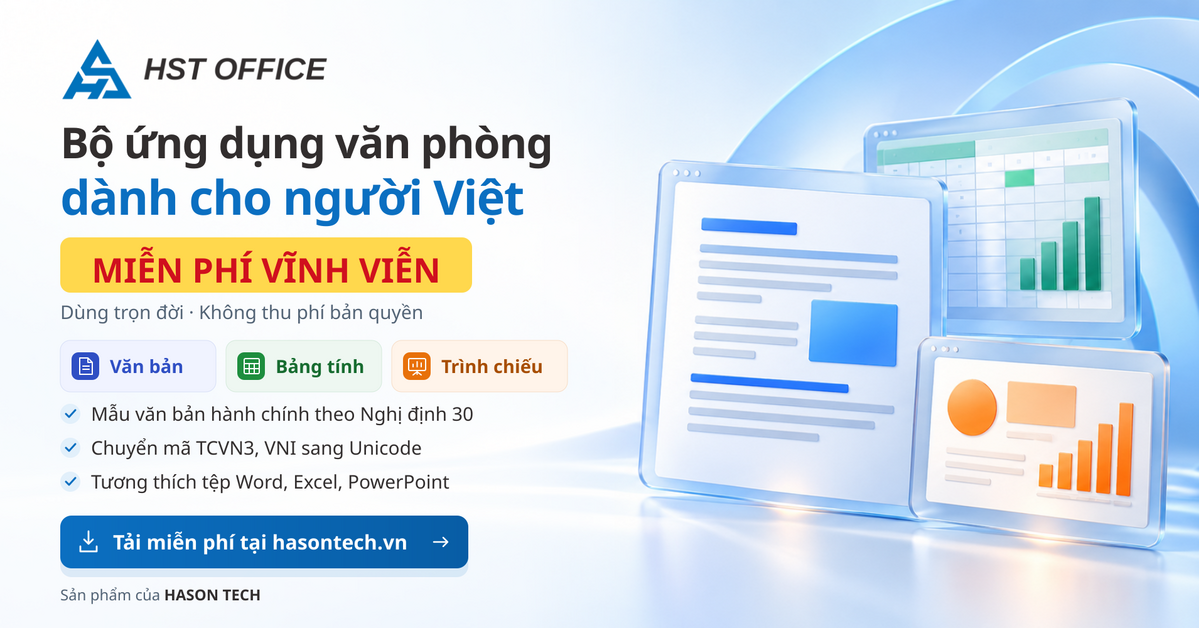
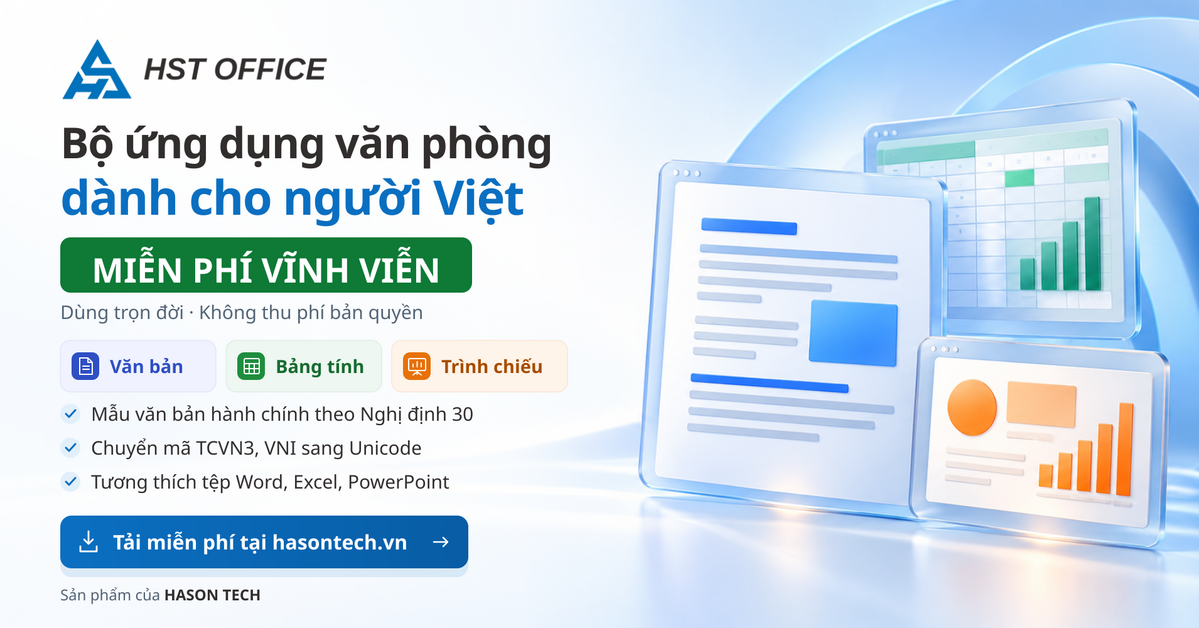
feat(marketing): dark-green lifetime-free badge with white text; landing page brief

Changed region(s): [[0.0309, 0.3631, 0.4012, 0.4841]]

diff --git a/docs/website/office-landing-page-brief.md b/docs/website/office-landing-page-brief.md
@@ -1,0 +1,61 @@
+# Brief: landing page office.hasontech.vn (HST Office)
+
+Người yêu cầu: chủ dự án HST Office (HASON TECH). Ngày: 2026-10-30.
+
+## Mục tiêu
+Một landing page tiếng Việt, một trang, đẹp, nhanh, chuẩn SEO, giới thiệu **HST Office** — bộ ứng dụng văn phòng **MIỄN PHÍ VĨNH VIỄN** cho người Việt — và cho tải bộ cài.
+
+## Cách làm (bắt buộc)
+- **Thiết kế và viết code bằng Codex CLI, model gpt-6-astra, reasoning effort xhigh** (`codex exec -c model_reasoning_effort=xhigh ...`, sandbox `workspace-write` trong một thư mục làm việc; không dùng `--full-auto`). Bạn (phiên remote) điều phối, review, sửa lỗi, rồi deploy.
+- Trang **tĩnh** (HTML + CSS + JS tối thiểu, không framework nặng, không build step bắt buộc). Ảnh tối ưu (WebP + fallback, lazy-load), Lighthouse mục tiêu ≥ 90 cả 4 mục, responsive tốt ở mobile.
+
+## Triển khai
+- Máy chủ: **VPS 239** (103.122.221.239) — thông tin truy cập bạn đã có trong phiên này. DNS `office.hasontech.vn` đã trỏ về IP này.
+- Hosting: subdomain dưới user **hasontech** (cùng hosting). Thư mục web: **`/domains/office.hasontech.vn/public_html`** (đường dẫn trong home của user hasontech, ví dụ `/home/hasontech/domains/office.hasontech.vn/public_html` — xác minh thực tế trên VPS).
+- Nếu subdomain chưa được tạo trong control panel thì tạo đúng cách của panel đang dùng (không sửa tay cấu hình web server của site khác). Bật HTTPS (Let's Encrypt qua panel) và chuyển hướng HTTP→HTTPS.
+- **An toàn:** chỉ đụng thư mục/subdomain này. Không sửa site khác của user hasontech hay site khác trên VPS. Sao lưu `public_html` hiện có (nếu có nội dung) trước khi ghi đè. File thuộc user `hasontech`, quyền 644/755. Không đặt secret/khóa vào code trang.
+- Sau deploy: kiểm tra `https://office.hasontech.vn` trả 200, chứng chỉ hợp lệ, ảnh và link tải chạy.
+
+## Tài sản (lấy từ repo trên máy này: `/home/office`)
+- Logo: `/home/office/branding/libreoffice/logo.svg` (logo HST OFFICE), biểu tượng `/home/office/assets/brand/hst-office-mark.png`.
+- Icon ứng dụng (bộ "Ô vuông"): `/home/office/assets/brand/icons/hst-{office,writer,sheets,slides,draw,math,base}-{256,512,1024}.png` và `.svg`.
+- Banner: `/home/office/assets/marketing/hst-office-banner-quangba-1910x1000.png` (dùng làm ảnh OG/social share 1200×628: `hst-office-banner-quangba-1200x628.png`).
+- Ảnh chụp giao diện thật (tiếng Việt): `/home/office/tests/output/screenshots-policy/` (10-writer-ribbon, 12-calc-first, 14-impress-first, 02-start-center, 08-about…), `/home/office/tests/output/screenshots-tabs/02-three-tabs-calc.png` (nhiều tab trong một cửa sổ), `/home/office/tests/output/screenshots-backlog/nd30-wizard-filled.png`, `welcome-dialog-vi.png`. Cắt/viền khung cửa sổ cho đẹp; không dùng ảnh có lỗi hiển thị.
+- **Phong cách (chủ dự án yêu cầu): màu sắc rực rỡ, đẹp, sinh động — đúng tinh thần 2 banner Codex đã thiết kế** (`assets/marketing/hst-office-banner-quangba-*.png`, `hst-office-banner-sapramat-*.png`): nền gradient xanh sáng/xanh trời, cửa sổ ứng dụng dạng kính 3D phát sáng, khối màu module tươi, nhãn xanh lá đậm chữ trắng "MIỄN PHÍ VĨNH VIỄN" nổi bật, chiều sâu và ánh sáng mềm. Có thể dùng chính `bg-quangba.png` / `bg-sapramat.png` (ảnh nền không chữ) trong `assets/marketing/` hoặc nhờ Codex tạo thêm minh họa cùng phong cách (không chữ trong ảnh — chữ tiếng Việt luôn là HTML). Tránh giao diện nhạt, xám, "template".
+- Màu: xanh HST `#0B6FC1`, chữ `#322E2E`; Văn bản `#2F5BD3`, Bảng tính `#1E8E3E`, Trình chiếu `#E8590C`; nhãn "Miễn phí vĩnh viễn": nền xanh lá đậm `#0E7A36`, chữ trắng (chủ dự án chọn). Font hỗ trợ tiếng Việt tốt (Be Vietnam Pro hoặc Noto Sans, self-host hoặc Google Fonts).
+
+## Nội dung trang (tiếng Việt, đúng chính tả, có dấu)
+1. **Hero:** logo, "Bộ ứng dụng văn phòng dành cho người Việt", badge **MIỄN PHÍ VĨNH VIỄN** + "Dùng trọn đời · Không thu phí bản quyền", nút tải chính (tự nhận hệ điều hành: Windows/macOS/Linux) + link "Các phiên bản khác", ảnh giao diện.
+2. **Ba ứng dụng:** Văn bản · Bảng tính · Trình chiếu (dùng icon bộ Ô vuông).
+3. **Tính năng nổi bật:** giao diện tiếng Việt; mẫu văn bản hành chính theo Nghị định 30 (có trình hướng dẫn); chuyển mã TCVN3/VNI sang Unicode; mở và lưu tệp Word, Excel, PowerPoint (DOCX/XLSX/PPTX); giao diện ribbon quen thuộc; mở nhiều tài liệu dạng tab trong một cửa sổ; chạy trên Windows, macOS, Linux; dùng offline, không cần tài khoản. Chỉ nêu tính năng có thật — không bịa (không AI, không đám mây, không đồng bộ).
+4. **Tải về:** 3 khối Windows / macOS / Linux:
+   - Windows 10/11 64-bit: `.msi`
+   - macOS (Apple Silicon / Intel): `.dmg` — **đang chuẩn bị**, hiển thị "Sắp có" nếu chưa có file.
+   - Linux (Ubuntu/Debian 64-bit): `.deb` (gói `.tar.gz`), kèm lệnh cài ngắn.
+   - Link tải: `https://github.com/haduyson/hst-office/releases/download/<TAG>/<FILE>`; hiện tại TAG = `v1.0.0-beta.1`, file: `HSTOffice_1.0.0_Win_x86-64_en-US_vi.msi`, `HSTOffice_1.0.0_Linux_x86-64_deb.tar.gz`, `SHA256SUMS`. Đặt TAG và tên file ở **một chỗ cấu hình duy nhất** (ví dụ `config.js`) để đổi bản phát hành dễ (beta.2 sắp ra, sẽ thêm macOS `.dmg`). Ghi chú nhãn "Bản thử nghiệm (beta)".
+   - **Bổ sung (chủ dự án): luôn có sẵn đủ 3 nút tải cho Windows / macOS / Linux** (macOS có 2 lựa chọn: Apple Silicon và Intel). Nút nào chưa có link thì hiển thị trạng thái "Sắp có" (vẫn đẹp, không phải nút hỏng); khi điền link vào cấu hình thì nút tự bật. Bảng link dự kiến (tên file đã cố định theo workflow phát hành):
+
+     | Nền tảng | Hiện tại (đã có) | Dự kiến bản kế tiếp `v1.0.0-beta.2` |
+     |---|---|---|
+     | Windows | `…/v1.0.0-beta.1/HSTOffice_1.0.0_Win_x86-64_en-US_vi.msi` | `…/v1.0.0-beta.2/HSTOffice_1.0.0_Win_x86-64_en-US_vi.msi` |
+     | Linux | `…/v1.0.0-beta.1/HSTOffice_1.0.0_Linux_x86-64_deb.tar.gz` | `…/v1.0.0-beta.2/HSTOffice_1.0.0_Linux_x86-64_deb.tar.gz` |
+     | macOS Apple Silicon | (chưa có → "Sắp có") | `…/v1.0.0-beta.2/HSTOffice_1.0.0_macOS_arm64.dmg` |
+     | macOS Intel | (chưa có → "Sắp có") | `…/v1.0.0-beta.2/HSTOffice_1.0.0_macOS_x86_64.dmg` |
+
+     (`…` = `https://github.com/haduyson/hst-office/releases/download`.) Bây giờ gắn link **beta.1** cho Windows và Linux; macOS để "Sắp có". Ghi sẵn link beta.2 trong cấu hình dưới dạng chú thích để bật khi phát hành.
+   - **Link tải cố định trên domain:** các nút trỏ tới `https://office.hasontech.vn/tai/windows`, `/tai/macos-arm`, `/tai/macos-intel`, `/tai/linux`, `/tai/sha256` — chuyển hướng 302 (cấu hình ở một file duy nhất, ví dụ `.htaccess` nếu web server là Apache/LiteSpeed, hoặc cấu hình tương đương) sang link GitHub hiện hành. Khi ra bản mới chỉ sửa file chuyển hướng; link chia sẻ ra ngoài không bao giờ đổi. Link chưa có thì chuyển về mục "Tải về" của trang.
+   - Ghi chú ngắn: bản thử nghiệm chưa ký số → Windows SmartScreen chọn "More info → Run anyway"; macOS chuột phải → Open; kiểm tra SHA256.
+5. **Câu hỏi thường gặp:** có thật sự miễn phí? (có, vĩnh viễn, nguồn mở); dùng cho doanh nghiệp/cơ quan được không?; mở được tệp Word/Excel cũ không?; có cần Internet không?; dữ liệu có gửi đi đâu không? (không); cài tiện ích thế nào? (tự tải tệp .oxt, tự chịu trách nhiệm); hỗ trợ ở đâu?
+6. **Chân trang:** "Sản phẩm của HASON TECH", Công ty TNHH Công nghệ Hà Sơn (HASON TECH), 300 Xô Viết Nghệ Tĩnh, phường Cẩm Lệ, TP. Đà Nẵng · Điện thoại (0236) 3.507.507 · lienhe@hasontech.vn · hasontech.vn; dòng "© 2026 HASON TECH · © 2000–2026 The Document Foundation và các tác giả LibreOffice"; "Phần mềm nguồn mở theo giấy phép MPL-2.0". Danh sách giải pháp HASON TECH đúng thứ tự: AIOS, eChatbot, Zalo Mini App, HST SEO, HST Content, AI Dễ Lắm (link hasontech.vn có UTM `utm_source=office-hasontech-vn&utm_medium=landing&utm_campaign=hst-office-1-0`).
+
+## Quy định thương hiệu/pháp lý
+- **Không** ghi "© HASON TECH. All rights reserved" cho toàn bộ sản phẩm. Chỉ dùng dòng bản quyền ở mục 6.
+- Không dùng logo/ảnh LibreOffice; được phép nhắc "dựa trên mã nguồn mở LibreOffice" ở FAQ/chân trang nếu cần, không dùng làm điểm quảng bá chính. Không có nút "Donate".
+- Link GitHub chỉ dùng cho nút tải (được phép trên website).
+
+## SEO / kỹ thuật
+- `lang="vi"`, title ~60 ký tự, meta description ~155 ký tự, Open Graph + Twitter card (ảnh banner 1200×628), favicon từ icon HST Office, `schema.org/SoftwareApplication` (offers price 0, VND), sitemap.xml, robots.txt, canonical `https://office.hasontech.vn/`.
+- Không tracker bên thứ ba nếu chưa được yêu cầu.
+
+## Bàn giao
+- Code nguồn trang cũng lưu một bản trong repo: `/home/office/website/office.hasontech.vn/` (không commit ảnh quá 500 KB/ảnh; không commit secret). Báo lại cho phiên `office`: URL, ảnh chụp trang (desktop + mobile), điểm Lighthouse, những gì đã sao lưu/thay đổi trên VPS.
